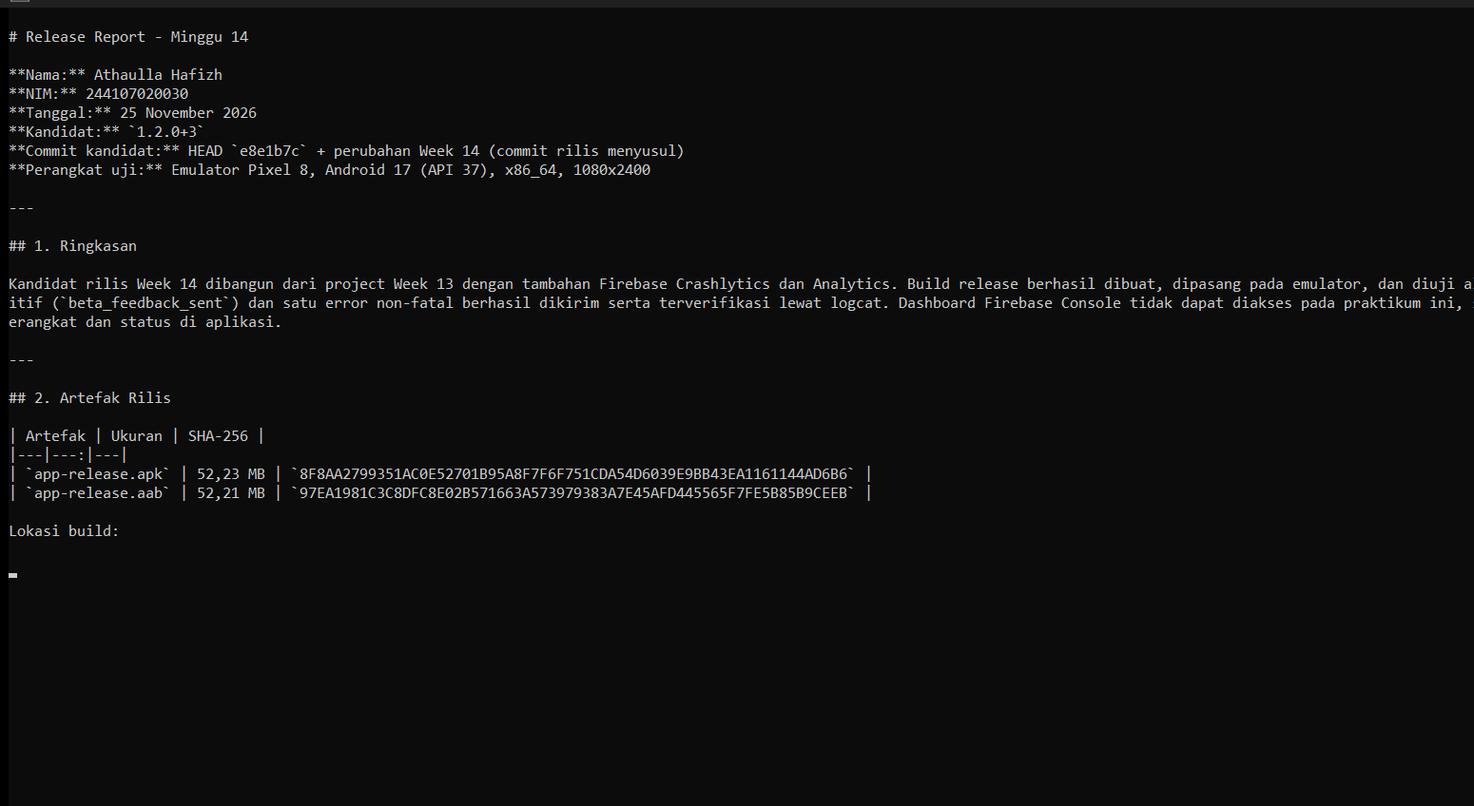
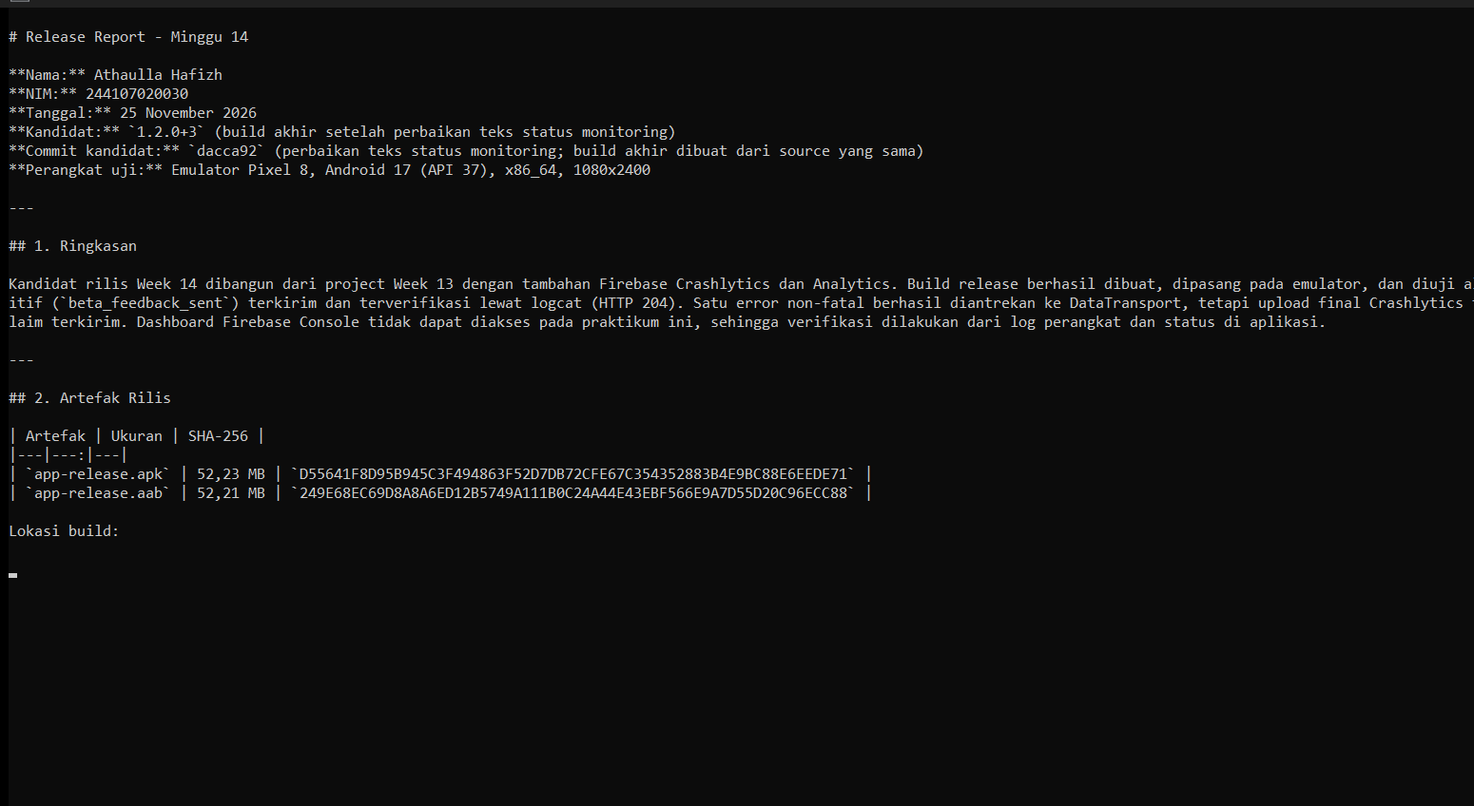
docs(week12-14): audit ulang gambar, klaim telemetri, dan checksum
- Perbaiki screenshot artefak/build Week 13 yang sebelumnya berisi error path

- Pisahkan bukti Analytics dan Crashlytics; error non-fatal diantrekan, bukan diklaim terkirim

- Perbaiki screenshot Week 14 yang tertimpa aplikasi/home screen lain

- Selaraskan checksum, commit kandidat, README, notes, dan portfolio

Changed region(s): [[0.0, 0.3679, 0.991, 0.4292], [0.1239, 0.1533, 0.6194, 0.2146], [0.1858, 0.5825, 0.5884, 0.6439]]

diff --git a/14-week-14-deployment-monitoring/README.md b/14-week-14-deployment-monitoring/README.md
@@ -71,7 +71,7 @@ Keterangan konfigurasi:
 
 ## Hasil yang Dicapai
 
-Kandidat `1.2.0+3` berhasil dibangun dan dipasang pada emulator. Firebase aktif dan terverifikasi lewat logcat: `FirebaseApp initialization successful`, event `beta_feedback_sent` masuk pipeline Analytics, dan error non-fatal diantrekan lalu di-upload dengan HTTP 204 pada build uji versi yang sama. Seluruh 65 tes lulus, integration test login sampai catatan juga lulus di emulator, `flutter analyze --fatal-infos` bersih, dan format nol perubahan. Dashboard Firebase Console tidak dapat diakses, sehingga keputusan rilis ditahan pada beta internal dan tidak diperluas.
+Kandidat `1.2.0+3` berhasil dibangun dan dipasang pada emulator. Firebase aktif dan terverifikasi lewat logcat: `FirebaseApp initialization successful`, event `beta_feedback_sent` masuk pipeline Analytics dan upload Analytics berhasil dengan HTTP 204. Error non-fatal berhasil diantrekan ke DataTransport, tetapi upload final Crashlytics tidak muncul di log sehingga tidak diklaim terkirim. Seluruh 65 tes lulus, integration test login sampai catatan juga lulus di emulator, `flutter analyze --fatal-infos` bersih, dan format nol perubahan. Dashboard Firebase Console tidak dapat diakses, sehingga keputusan rilis ditahan pada beta internal dan tidak diperluas.
 
 ---
 
@@ -83,8 +83,8 @@ Kandidat `1.2.0+3` berhasil dibangun dan dipasang pada emulator. Firebase aktif 
 | Build number | `3` |
 | APK | 52,23 MB |
 | AAB | 52,21 MB |
[4 lines of base64/hex data omitted]
 | Perangkat uji | Pixel 8, Android 17 (API 37) |
 
 Artefak build tidak di-commit. Angka dan checksum di atas dihasilkan dari build pada 25 November 2026.
@@ -100,7 +100,7 @@ Artefak build tidak di-commit. Angka dan checksum di atas dihasilkan dari build 
 > **Keterangan gambar**
 > - Versi dinaikkan dari `1.1.0+2` menjadi `1.2.0+3`.
 > - Kenaikan minor dipakai karena ada fitur baru (monitoring beta), dan build number naik untuk unggahan baru.
-> - Commit kandidat dicatat agar artefak bisa dihubungkan ke source.
+> - Commit yang tampil adalah `dacca92`, source yang dipakai untuk build akhir.
 
 <img src="screenshots/Praktikum 1 - Build AAB Release.png" width="700" alt="Build AAB Release">
 
@@ -110,6 +110,13 @@ Artefak build tidak di-commit. Angka dan checksum di atas dihasilkan dari build 
 > - Keduanya memakai debug signing; ini cukup untuk uji internal, tetapi belum layak untuk Play Store.
 
 ### Praktikum 2: Distribusi Beta ke Perangkat Uji
+
+<img src="screenshots/Praktikum 2 - Integration Test Beta.png" width="700" alt="Integration Test Beta">
+
+> **Keterangan gambar**
+> - Integration test dijalankan pada source final `dacca92` di emulator Pixel 8.
+> - Alur login sampai catatan tersimpan lulus (`All tests passed!`) tanpa crash.
+> - Ini bukti tambahan bahwa perbaikan teks status tidak merusak alur utama.
 
 <img src="screenshots/Praktikum 2 - Instalasi Build Beta.png" width="700" alt="Instalasi Build Beta">
 
@@ -121,7 +128,7 @@ Artefak build tidak di-commit. Angka dan checksum di atas dihasilkan dari build 
 <img src="screenshots/Praktikum 2 - Aplikasi Beta di Emulator.png" width="300" alt="Aplikasi Beta di Emulator">
 
 > **Keterangan gambar**
-> - Build release berhasil login dan menampilkan Home.
+> - Build release dipasang, lalu login berhasil dan menampilkan Home (screenshot diambil setelah aplikasi dipastikan foreground).
 > - Halaman Home menampilkan penanda `Deployment & Monitoring - Week 14`.
 > - Ikon umpan balik di kanan atas membuka halaman pengujian telemetri.
 
@@ -139,7 +146,7 @@ Artefak build tidak di-commit. Angka dan checksum di atas dihasilkan dari build 
 > **Keterangan gambar**
 > - Status monitoring ditampilkan jujur: `Firebase aktif (campus-notify-20030)`.
 > - Halaman ini hanya mengirim nama event dan nama layar.
-> - Tombol **Uji Error Non-Fatal** memicu error buatan untuk membuktikan Crashlytics menerima laporan.
+> - Tombol **Uji Error Non-Fatal** memicu error buatan untuk membuktikan Crashlytics mencatat dan mengantrekan laporan.
 
 <img src="screenshots/Praktikum 3 - Event Beta Dikirim.png" width="300" alt="Event Beta Dikirim">
 
@@ -147,11 +154,11 @@ Artefak build tidak di-commit. Angka dan checksum di atas dihasilkan dari build 
 > - Snackbar menegaskan event dikirim tanpa data pribadi.
 > - Event yang dikirim bernama `beta_feedback_sent` dengan parameter `screen_name=beta_feedback_page`.
 
-<img src="screenshots/Praktikum 3 - Error Non Fatal Dikirim.png" width="300" alt="Error Non Fatal Dikirim">
+<img src="screenshots/Praktikum 3 - Error Non Fatal Diantrekan di Aplikasi.png" width="300" alt="Error Non Fatal Diantrekan di Aplikasi">
 
 > **Keterangan gambar**
-> - Snackbar menegaskan error non-fatal dikirim ke Crashlytics.
-> - Error yang dikirim adalah error buatan `Uji error non-fatal Week 14` tanpa data pengguna.
+> - Snackbar menegaskan error non-fatal diantrekan ke Crashlytics, bukan diklaim sudah terkirim.
+> - Error yang diproses adalah error buatan `Uji error non-fatal Week 14` tanpa data pengguna.
 
 <img src="screenshots/Praktikum 3 - Event Analytics Terkirim.png" width="700" alt="Event Analytics Terkirim">
 
@@ -160,12 +167,12 @@ Artefak build tidak di-commit. Angka dan checksum di atas dihasilkan dari build 
 > - Parameter yang tercatat hanya `screen_name=beta_feedback_page`.
 > - Tidak ada email, token, atau isi catatan pada event.
 
-<img src="screenshots/Praktikum 3 - Error Non Fatal Terkirim.png" width="700" alt="Error Non Fatal Terkirim">
+<img src="screenshots/Praktikum 3 - Error Non Fatal Diantrekan.png" width="700" alt="Error Non Fatal Diantrekan">
 
 > **Keterangan gambar**
 > - Crashlytics mencatat `Persisting non-fatal event`, lalu `successfully enqueued to DataTransport` pada build uji `1.2.0+3`.
-> - Setelah aplikasi dibuka ulang, report di-upload dan server membalas HTTP 204.
-> - Baris `Successful upload. Got network response` adalah bukti upload, bukan sekadar pencatatan lokal.
+> - Report diantrekan ke DataTransport, lalu berkas report lokal dihapus. Upload final Crashlytics tidak muncul di log, jadi statusnya **diantrekan**, bukan **terkirim**.
+> - Baris `Successful upload. Got network response` pada `FA-SVC` adalah bukti upload **Analytics**, bukan Crashlytics.
 
 ### Praktikum 4: Triage dan Release Report
 
@@ -174,13 +181,14 @@ Artefak build tidak di-commit. Angka dan checksum di atas dihasilkan dari build 
 > **Keterangan gambar**
 > - Ringkasan bukti Analytics dan Crashlytics dikumpulkan dalam satu tampilan.
 > - Verifikasi memakai logcat karena dashboard Firebase Console tidak dapat diakses.
-> - HTTP 204 pada upload Crashlytics menunjukkan server menerima report.
+> - HTTP 204 berasal dari `FA-SVC` (Analytics). Crashlytics baru sampai tahap enqueue ke DataTransport, sehingga tidak diklaim terkirim.
 
 <img src="screenshots/Praktikum 4 - Triage Rilis.png" width="700" alt="Triage Rilis">
 
 > **Keterangan gambar**
 > - Alur utama release lulus di emulator.
-> - Analytics dan Crashlytics terkirim, tetapi dashboard belum ditinjau.
+> - Analytics terkirim (HTTP 204); Crashlytics baru diantrekan ke DataTransport.
+> - Dashboard belum ditinjau dan upload final Crashlytics belum terverifikasi.
 > - Keputusan: lanjutkan beta internal dengan syarat, tahan rilis publik.
 
 <img src="screenshots/Praktikum 4 - Release Report.png" width="700" alt="Release Report">
@@ -235,7 +243,7 @@ Bila `Firebase.initializeApp` gagal, `Monitoring.enabled` bernilai false, status
 2. **Distribusi bukan track resmi.** ADB install tidak punya opt-in, daftar tester, atau rollback.
 3. **Signing debug.** APK/AAB belum layak untuk Play Store.
 4. **Project Firebase dipakai bersama Minggu 6.** Data telemetry masuk ke project yang sama.
-5. **Symbol native belum diunggah.** Crashlytics menerima laporan Dart, tetapi mapping native belum dikonfigurasi.
+5. **Symbol native belum diunggah.** Crashlytics mencatat laporan Dart, tetapi mapping native belum dikonfigurasi.
 
 ---
 
@@ -247,7 +255,7 @@ Prompt untuk menganalisis log rilis beta sudah disamarkan dan dicatat lengkap di
 
 | Saran AI | Keputusan | Alasan Teknis |
 |---|---|---|
-| `enqueued` belum berarti `uploaded` | **Diterima** | Upload dibuktikan baris HTTP 204 |
+| `enqueued` belum berarti `uploaded` | **Diterima** | HTTP 204 adalah upload Analytics; Crashlytics baru enqueue |
 | Cek dashboard sebelum memperluas beta | **Diterima** | Dashboard adalah sinyal agregat yang tidak bisa diganti log satu perangkat |
 | Hitung crash-free rate dari logcat | **Ditolak** | Log satu perangkat tidak mewakili populasi |
 | Kirim `user_id` untuk analisis | **Ditolak** | Melanggar minimalisasi data |
@@ -264,7 +272,7 @@ Bukti bahwa build yang sama sudah diuji pada beberapa perangkat, tidak ada crash
 
 **2. Bagaimana Anda memutuskan untuk menahan atau melanjutkan rilis?**
 
-Saya menahan perluasan karena tiga syarat belum terpenuhi: signing produksi, dashboard monitoring, dan tester eksternal. Saya tetap melanjutkan beta internal karena alur utama lulus dan telemetry terbukti terkirim. Keputusan ini dicatat eksplisit di `docs/release-report.md`, bukan disimpulkan diam-diam.
+Saya menahan perluasan karena tiga syarat belum terpenuhi: signing produksi, dashboard monitoring, dan tester eksternal. Saya tetap melanjutkan beta internal karena alur utama lulus, event Analytics terbukti terkirim, dan error non-fatal tercatat sampai antrean DataTransport. Keputusan ini dicatat eksplisit di `docs/release-report.md`, bukan disimpulkan diam-diam.
 
 **3. Data apa yang tidak perlu dikirim ke layanan monitoring?**
 

diff --git a/14-week-14-deployment-monitoring/docs/release-report.md b/14-week-14-deployment-monitoring/docs/release-report.md
@@ -3,15 +3,15 @@
 **Nama:** Athaulla Hafizh  
 **NIM:** 244107020030  
 **Tanggal:** 25 November 2026  
-**Kandidat:** `1.2.0+3`  
-**Commit kandidat:** `3cb7d9c` (build dibuat dari working tree yang sama; dokumentasi rilis ada pada commit setelahnya)  
+**Kandidat:** `1.2.0+3` (build akhir setelah perbaikan teks status monitoring)  
+**Commit kandidat:** `dacca92` (perbaikan teks status monitoring; build akhir dibuat dari source yang sama)  
 **Perangkat uji:** Emulator Pixel 8, Android 17 (API 37), x86_64, 1080x2400
 
 ---
 
 ## 1. Ringkasan
 
-Kandidat rilis Week 14 dibangun dari project Week 13 dengan tambahan Firebase Crashlytics dan Analytics. Build release berhasil dibuat, dipasang pada emulator, dan diuji alur utama. Satu event Analytics non-sensitif (`beta_feedback_sent`) dan satu error non-fatal berhasil dikirim serta terverifikasi lewat logcat pada build uji versi yang sama. Dashboard Firebase Console tidak dapat diakses pada praktikum ini, sehingga verifikasi dilakukan dari log perangkat dan status di aplikasi.
+Kandidat rilis Week 14 dibangun dari project Week 13 dengan tambahan Firebase Crashlytics dan Analytics. Build release berhasil dibuat, dipasang pada emulator, dan diuji alur utama. Satu event Analytics non-sensitif (`beta_feedback_sent`) terkirim dan terverifikasi lewat logcat (HTTP 204). Satu error non-fatal berhasil diantrekan ke DataTransport, tetapi upload final Crashlytics tidak terlihat di log sehingga tidak diklaim terkirim. Dashboard Firebase Console tidak dapat diakses pada praktikum ini, sehingga verifikasi dilakukan dari log perangkat dan status di aplikasi.
 
 ---
 
@@ -19,8 +19,8 @@ Kandidat rilis Week 14 dibangun dari project Week 13 dengan tambahan Firebase Cr
 
 | Artefak | Ukuran | SHA-256 |
 |---|---:|---|
[4 lines of base64/hex data omitted]
 
 Lokasi build:
 
@@ -95,18 +95,18 @@ V/FA-SVC: Logging event: origin=app,name=beta_feedback_sent,
 params=Bundle[{screen_name=beta_feedback_page, ga_event_origin(_o)=app, ...}]
 V/FA-SVC:       name: beta_feedback_sent
 V/FA-SVC:         string_value: beta_feedback_page
+V/FA-SVC: Network upload successful with code, uploadAttempted: 204, true
+V/FA-SVC: Successful upload. Got network response. code, size: 204, 0
 ```
 
 ### Crashlytics
 
-Verifikasi non-fatal dilakukan pada build uji `1.2.0+3`. Build release juga menginisialisasi Crashlytics, tetapi upload report pada sesi release tidak muncul di log; report yang sama terverifikasi pada build uji dengan applicationId dan versi identik.
+Verifikasi non-fatal dilakukan pada build uji `1.2.0+3`. Build release juga menginisialisasi Crashlytics. Yang terbukti di log adalah report berhasil diantrekan ke DataTransport, lalu berkas report lokal dihapus. Upload final Crashlytics tidak muncul di log, sehingga statusnya **diantrekan**, bukan **terkirim**.
 
 ```text
 D/FirebaseCrashlytics: Persisting non-fatal event for session ...
 D/FirebaseCrashlytics: Crashlytics report successfully enqueued to DataTransport: ...
 D/FirebaseCrashlytics: Deleted report file: .../reports/...
-V/FA-SVC: Network upload successful with code, uploadAttempted: 204, true
-V/FA-SVC: Successful upload. Got network response. code, size: 204, 0
 ```
 
 ### Inisialisasi
@@ -120,7 +120,8 @@ Bukti:
 - `screenshots/Praktikum 3 - Firebase Terinisialisasi.png`
 - `screenshots/Praktikum 3 - Event Analytics Terkirim.png`
 - `screenshots/Praktikum 3 - Event Beta Dikirim.png`
-- `screenshots/Praktikum 3 - Error Non Fatal Dikirim.png`
+- `screenshots/Praktikum 3 - Error Non Fatal Diantrekan di Aplikasi.png`
+- `screenshots/Praktikum 3 - Error Non Fatal Diantrekan.png`
 - `screenshots/Praktikum 4 - Verifikasi Telemetri.png`
 
 ---
@@ -131,7 +132,7 @@ Bukti:
 |:--:|---|---|---|
 | 1 | Build release gagal login karena izin `INTERNET` hanya ada di manifest debug | Alur utama tidak bisa dipakai pada build release | **Diperbaiki**: izin ditambahkan ke `android/app/src/main/AndroidManifest.xml` |
 | 2 | Firebase gagal init sebelum plugin `com.google.gms.google-services` dipasang | Analytics melaporkan `Missing google_app_id` | **Diperbaiki**: plugin dan `google-services.json` ditambahkan |
-| 3 | Crashlytics report baru terkirim setelah aplikasi dibuka ulang | Verifikasi dashboard tertunda | **Diterima**: report diantrekan ke DataTransport lalu di-upload pada sesi berikutnya |
+| 3 | Crashlytics report baru diantrekan setelah aplikasi dibuka ulang | Upload final belum terverifikasi | **Diterima**: report masuk DataTransport, tetapi tidak ada bukti upload di log |
 | 4 | Dashboard Firebase Console tidak dapat diakses | Tidak ada tangkapan layar dashboard | **Dicatat sebagai keterbatasan**; verifikasi memakai logcat |
 | 5 | Play Console tidak tersedia | Tidak ada track Internal Testing | **Dicatat**; distribusi memakai ADB ke perangkat uji |
 | 6 | Build memakai debug signing | Tidak layak untuk Play Store | **Ditahan** untuk rilis publik sampai keystore produksi disiapkan |
@@ -142,7 +143,7 @@ Bukti:
 
 **Lanjutkan beta internal dengan syarat**, bukan rilis publik.
 
-Alasannya: alur utama berjalan pada build release, event Analytics dan error non-fatal terverifikasi terkirim, dan tidak ada data sensitif yang dikirim. Namun build belum ditandatangani dengan keystore produksi, dashboard monitoring belum ditinjau langsung, dan belum ada tester selain emulator. Karena itu distribusi tidak diperluas.
+Alasannya: alur utama berjalan pada build release, event Analytics terkirim (HTTP 204), error non-fatal diantrekan ke DataTransport, dan tidak ada data sensitif yang dikirim. Namun build belum ditandatangani dengan keystore produksi, dashboard monitoring belum ditinjau langsung, dan belum ada tester selain emulator. Karena itu distribusi tidak diperluas.
 
 Kriteria untuk memperluas distribusi:
 1. Keystore produksi dibuat dan disimpan di GitHub Actions Secrets.
@@ -171,7 +172,7 @@ Event `beta_feedback_sent` hanya membawa `screen_name`. Logika `RedactSensitive`
 2. **Distribusi bukan track resmi.** ADB install tidak memiliki mekanisme opt-in, daftar tester, atau rollback seperti Play Console.
 3. **Signing debug.** APK/AAB tidak dapat dipublikasikan ke Play Store.
 4. **Project Firebase dipakai bersama Minggu 6.** Data Analytics/Crashlytics masuk ke project yang sama dan `applicationId` juga sama, sehingga memasang build Week 14 akan menggantikan aplikasi Minggu 6 di perangkat uji. Ini disengaja karena pendaftaran aplikasi baru butuh akses console.
-5. **Symbol upload belum dikonfigurasi.** Crashlytics menerima laporan Dart, tetapi symbol native belum diunggah lewat Gradle plugin Crashlytics.
+5. **Symbol upload belum dikonfigurasi.** Crashlytics mencatat laporan Dart, tetapi symbol native belum diunggah lewat Gradle plugin Crashlytics.
 
 ---
 

diff --git a/14-week-14-deployment-monitoring/docs/ai-log-analysis.md b/14-week-14-deployment-monitoring/docs/ai-log-analysis.md
@@ -19,10 +19,12 @@ I/FirebaseInitProvider: FirebaseApp initialization successful
 I/FirebaseCrashlytics: Initializing Firebase Crashlytics 21.1.0 for <APP_ID>
 V/FA-SVC: Logging event: origin=app,name=beta_feedback_sent,
 params=Bundle[{screen_name=<SCREEN>, ga_event_origin(_o)=app, ...}]
-D/FirebaseCrashlytics: Persisting non-fatal event for session <SESSION>
-D/FirebaseCrashlytics: Crashlytics report successfully enqueued to DataTransport: <SESSION>
+V/FA-SVC: Uploading data. app, uncompressed size, data: <APP_ID>, 628,
 V/FA-SVC: Network upload successful with code, uploadAttempted: 204, true
 V/FA-SVC: Successful upload. Got network response. code, size: 204, 0
+D/FirebaseCrashlytics: Persisting non-fatal event for session <SESSION>
+D/FirebaseCrashlytics: Crashlytics report successfully enqueued to DataTransport: <SESSION>
+D/FirebaseCrashlytics: Deleted report file: .../reports/<SESSION>
 ```
 
 Yang dihapus sebelum dikirim: `mobilesdk_app_id`, `firebaseInstallationId`, `crashlyticsInstallId`, `org_id`, nama paket lengkap, timestamp, dan seluruh isi pesan error yang mungkin memuat data pengguna.
@@ -33,13 +35,12 @@ Yang dihapus sebelum dikirim: `mobilesdk_app_id`, `firebaseInstallationId`, `cra
 
 ```text
 Konteks: ini logcat dari Flutter release build yang memakai Firebase
-Crashlytics dan Analytics. Event beta_feedback_sent tercatat, lalu satu
-error non-fatal dikirim. Report muncul sebagai "enqueued to DataTransport"
-dan upload berhasil dengan HTTP 204.
+Crashlytics dan Analytics. Event beta_feedback_sent tercatat dan FA-SVC
+melaporkan upload HTTP 204. Satu error non-fatal masuk Crashlytics dan
+muncul sebagai "enqueued to DataTransport".
 
 Tugas:
-1. Jelaskan apakah rangkaian log ini membuktikan event dan error benar-benar
-   terkirim, atau hanya tercatat lokal.
+1. Tentukan mana yang benar-benar terkirim dan mana yang baru diantrekan.
 2. Sebutkan bukti minimum yang masih kurang sebelum saya boleh memperluas
    distribusi beta.
 3. Tunjukkan bagian log yang tidak boleh dikirim ke layanan AI.
@@ -55,15 +56,15 @@ dari log ini, dan jangan menyarankan menambahkan data pribadi ke parameter.
 | Klaim AI | Keputusan | Verifikasi |
 |---|---|---|
 | `Persisting non-fatal event` berarti error baru disimpan lokal | **Diterima** | Log berikutnya menunjukkan `successfully enqueued to DataTransport` |
-| HTTP 204 berarti upload diterima server | **Diterima** | Baris `Successful upload. Got network response` muncul setelahnya |
-| Event Analytics terbukti terkirim karena ada `Logging event` | **Diterima sebagian** | `Logging event` membuktikan event masuk pipeline; upload Analytics terpisah terlihat pada `Uploading bundle` dan `Network upload successful` |
+| HTTP 204 berarti upload diterima server | **Diterima, tetapi untuk Analytics** | Baris 204 berasal dari `FA-SVC`, bukan Crashlytics |
+| Event Analytics terkirim karena ada `Logging event` dan upload 204 | **Diterima** | `Uploading bundle` dan `Network upload successful` muncul setelah event |
+| `Crashlytics report enqueued` sama dengan `uploaded` | **Ditolak** | Enqueue dan upload adalah dua tahap berbeda; tidak ada bukti upload Crashlytics di log |
 | Dashboard harus dicek untuk memastikan data muncul | **Diterima** | Tidak bisa dilakukan tanpa akses console; dicatat sebagai keterbatasan |
 | Crash-free rate bisa dihitung dari log ini | **Ditolak** | Log satu perangkat tidak mewakili populasi; butuh dashboard agregat |
 | Kirim `user_id` agar analisis lebih mudah | **Ditolak** | Melanggar prinsip minimalisasi data |
-| `Crashlytics report enqueued` sama dengan `uploaded` | **Ditolak** | Enqueue dan upload adalah dua tahap berbeda; bukti upload ada di baris HTTP 204 |
 
 ---
 
 ## 5. Kesimpulan
 
-AI berguna untuk menjelaskan urutan tahap Crashlytics, tetapi tidak boleh dipakai untuk menyimpulkan keberhasilan rilis hanya dari satu potong log. Kesimpulan yang saya pakai: event Analytics dan error non-fatal **terkirim** (bukti enqueue + HTTP 204), tetapi **dashboard belum diverifikasi** dan distribusi belum boleh diperluas.
+AI berguna untuk memisahkan dua jalur telemetri yang terlihat mirip di log. Kesimpulan yang saya pakai: **Analytics** `beta_feedback_sent` terkirim (HTTP 204), sedangkan **Crashlytics** baru sampai tahap enqueue ke DataTransport dan upload finalnya belum terverifikasi. Dashboard juga belum ditinjau, sehingga distribusi belum boleh diperluas.

diff --git a/13-week-13-ci-cd-automation/README.md b/13-week-13-ci-cd-automation/README.md
@@ -65,7 +65,7 @@ Keterangan versi:
 
 ## Hasil yang Dicapai
 
-Workflow berhasil menjalankan seluruh tahap pada project ini: format nol perubahan, `flutter analyze --fatal-infos` bersih, 65 tes lulus, lalu build APK 51,05 MB dan AAB 50,21 MB. Setelah perubahan di-push ke `develop`, GitHub Actions menjalankan 7 job matriks (Week 8-14) dan semuanya sukses; job Week 13 selesai dalam 6 menit 45 detik dan menghasilkan artefak `week13-android-builds` berukuran 73,6 MB. APK release dipasang pada emulator Pixel 8 dan menampilkan `versionName=1.1.0`, `versionCode=2`. Tidak ada material signing produksi yang dibuat; build memakai debug signing agar bisa diuji, dan itu dicatat sebagai risiko yang belum diselesaikan.
[1 lines of base64/hex data omitted]
 
 ---
 
@@ -99,8 +99,8 @@ Workflow berhasil menjalankan seluruh tahap pada project ini: format nol perubah
 <img src="screenshots/Praktikum 2 - Artefak Android.png" width="700" alt="Artefak Android">
 
 > **Keterangan gambar**
-> - Artefak disimpan di `build/app/outputs/` dan diunggah oleh `actions/upload-artifact@v4`.
-> - `if-no-files-found: error` membuat workflow gagal bila build tidak benar-benar menghasilkan berkas.
+> - Artefak nyata tersimpan di `build/app/outputs/`: APK 51,05 MB dan AAB 50,21 MB beserta checksum SHA-256.
+> - Pada GitHub Actions, `actions/upload-artifact@v4` mengunggah kedua berkas itu dengan `if-no-files-found: error`.
 > - Retensi 7 hari cukup untuk peninjauan, tanpa menyimpan artefak selamanya.
 
 ### Praktikum 3: Versioning, Secrets, dan Verifikasi
@@ -123,7 +123,7 @@ Workflow berhasil menjalankan seluruh tahap pada project ini: format nol perubah
 <img src="screenshots/Praktikum 3 - Aplikasi Release di Emulator.png" width="300" alt="Aplikasi Release di Emulator"> <img src="screenshots/Praktikum 3 - Home Aplikasi Release.png" width="300" alt="Home Aplikasi Release">
 
 > **Keterangan gambar**
-> - APK release dipasang di emulator dan berhasil login, membuktikan build release tidak hanya lolos kompilasi.
+> - Screenshot pertama menunjukkan halaman login build release; screenshot kedua menunjukkan Home setelah login berhasil.
 > - Build release sempat gagal login karena manifest utama belum memuat izin `INTERNET`; masalah diperbaiki dengan menambahkannya ke `AndroidManifest.xml` utama, bukan hanya manifest debug.
 > - Halaman Home menampilkan penanda `CI/CD & Automation - Week 13`.
 
@@ -147,7 +147,7 @@ Workflow berhasil menjalankan seluruh tahap pada project ini: format nol perubah
 
 ## Catatan Workflow
 
-Workflow pada folder modul ini adalah salinan mandiri untuk project Week 13. Pada repository monorepo ini, workflow yang benar-benar dieksekusi GitHub berada di `.github/workflows/` pada root repository dan menjalankan project Week 12 sampai Week 14. Keduanya memakai perintah yang sama; yang berbeda hanya `working-directory`.
+Workflow pada folder modul ini adalah salinan mandiri untuk project Week 13. Pada repository monorepo ini, workflow yang benar-benar dieksekusi GitHub berada di `.github/workflows/` pada root repository dan menjalankan project Week 8 sampai Week 14. Keduanya menjalankan format, analyze, dan test. Workflow mandiri memakai `--fatal-infos` dan format `.`; CI root memakai `flutter analyze` dan format `lib test` agar tetap kompatibel dengan Week 8-11. Yang berbeda juga `working-directory`.
 
 | Tahap | Perintah | Gagal berarti |
 |---|---|---|

diff --git a/notes/learning-journal/week-14-journal.md b/notes/learning-journal/week-14-journal.md
@@ -24,7 +24,8 @@
 - [x] Membuat halaman Umpan Balik Beta untuk event dan error non-fatal.
 - [x] Membangun APK 52,23 MB dan AAB 52,21 MB.
 - [x] Memasang build beta di emulator dan memverifikasi versi `1.2.0+3`.
-- [x] Memverifikasi event `beta_feedback_sent` dan upload Crashlytics HTTP 204 lewat logcat pada build uji versi yang sama.
+- [x] Memverifikasi event `beta_feedback_sent` dan upload Analytics HTTP 204 lewat logcat pada build uji versi yang sama.
+- [x] Memastikan report non-fatal Crashlytics sampai tahap enqueue DataTransport; upload finalnya tidak diklaim karena tidak muncul di log.
 - [x] Menulis `docs/release-report.md` dan `docs/ai-log-analysis.md`.
 - [x] Menjalankan analyze, format, dan 65 tes sampai hijau.
 
@@ -32,7 +33,7 @@
 - **Masalah:** Firebase gagal init dan Analytics melaporkan `Missing google_app_id` meskipun `firebase_options.dart` sudah diisi.
 - **Solusi:** Plugin `com.google.gms.google-services` dan `google-services.json` ditambahkan; setelah itu `FirebaseApp initialization successful`.
 - **Masalah:** Crashlytics mencatat non-fatal tetapi report belum terlihat terkirim.
-- **Solusi:** Report diantrekan ke DataTransport dan baru di-upload pada sesi berikutnya; setelah aplikasi dibuka ulang, log menunjukkan HTTP 204.
+- **Solusi:** Report diantrekan ke DataTransport setelah aplikasi dibuka ulang. HTTP 204 yang muncul berasal dari Analytics, bukan Crashlytics, sehingga status Crashlytics dicatat sebagai **diantrekan**, bukan **terkirim**.
 - **Masalah:** Build release gagal login karena izin `INTERNET` hanya ada di manifest debug.
 - **Solusi:** Izin dipindahkan ke manifest utama dan build diuji ulang di emulator.
 - **Masalah:** Firebase Console dan Play Console tidak dapat diakses.
@@ -41,4 +42,4 @@
 - **Solusi:** Tidak dipalsukan sebagai rilis produksi; keputusan rilis ditahan pada beta internal.
 
 ### Key Takeaway
-> Rilis bukan sekadar build berhasil. Bukti bahwa event dan error benar-benar terkirim, bahwa tidak ada data pribadi yang bocor, dan bahwa keterbatasan dicatat jujur jauh lebih penting daripada dashboard yang terlihat hijau.
+> Rilis bukan sekadar build berhasil. Bukti bahwa event Analytics benar-benar terkirim, bahwa error tercatat sampai antrean, bahwa tidak ada data pribadi yang bocor, dan bahwa keterbatasan dicatat jujur jauh lebih penting daripada dashboard yang terlihat hijau.

diff --git a/12-week-12-testing-quality-assurance/README.md b/12-week-12-testing-quality-assurance/README.md
@@ -97,8 +97,8 @@ Seluruh **65 tes** lulus: 57 tes lama dari Minggu 11 dan 8 tes baru untuk login,
 <img src="screenshots/Praktikum 1 - Struktur Berkas Test.png" width="700" alt="Struktur Berkas Test">
 
 > **Keterangan gambar**
-> - Delapan berkas test baru ditambahkan di samping 13 berkas test Minggu 11.
-> - `integration_test/app_test.dart` dipisahkan dari folder `test/` karena dijalankan pada perangkat, bukan di VM pengujian.
+> - Tiga berkas widget test baru dan satu berkas integration test ditambahkan di samping 13 berkas test Minggu 11.
+> - Total ada 16 berkas test dan 8 kasus uji baru, sehingga jumlah tes menjadi 65.
 
 <img src="screenshots/Praktikum 1 - Hasil Unit dan Widget Test.png" width="700" alt="Hasil Unit dan Widget Test">
 
@@ -158,7 +158,7 @@ Seluruh **65 tes** lulus: 57 tes lama dari Minggu 11 dan 8 tes baru untuk login,
 ## Temuan yang Belum Terselesaikan
 
 1. **Streaming AI belum diuji end-to-end.** Pengujian berhenti pada `AskAi` dan cache; parsing SSE serta pembatalan stream belum punya test karena membutuhkan server tiruan.
-2. **`flutter_secure_storage` hanya diuji lewat fake.** Perilaku Keystore asli baru terbukti saat integration test berjalan di perangkat.
+2. **`flutter_secure_storage` tidak diuji terpisah.** Unit test memakai fake; perilaku Keystore asli hanya tersentuh lewat integration test, tanpa pemeriksaan langsung.
 3. **Cakupan halaman detail pengumuman masih rendah.** Halaman ini hanya diuji secara tidak langsung lewat route.
 4. **Test integrasi bergantung pada jaringan.** `reqres.in` adalah layanan demo; jika kuota harian habis, test akan gagal karena alasan yang bukan bug aplikasi.
 

diff --git a/notes/reflections/week-14-reflection.md b/notes/reflections/week-14-reflection.md
@@ -10,7 +10,7 @@
 Bukti bahwa build yang sama sudah diuji pada beberapa perangkat, tidak ada crash fatal dalam 24 jam, dashboard menunjukkan crash-free users yang tinggi, dan tidak ada temuan yang menghalangi alur utama. Untuk praktikum ini, bukti yang ada baru satu perangkat dan satu event; itu cukup untuk uji internal, belum untuk memperluas.
 
 ## 2. Bagaimana Anda memutuskan untuk menahan atau melanjutkan rilis?
-Saya menahan perluasan karena tiga syarat belum terpenuhi: signing produksi, dashboard monitoring, dan tester eksternal. Saya tetap melanjutkan beta internal karena alur utama lulus dan telemetry terbukti terkirim. Keputusan ini dicatat eksplisit di `docs/release-report.md`, bukan disimpulkan diam-diam.
+Saya menahan perluasan karena tiga syarat belum terpenuhi: signing produksi, dashboard monitoring, dan tester eksternal. Saya tetap melanjutkan beta internal karena alur utama lulus, event Analytics terbukti terkirim (HTTP 204), dan error non-fatal tercatat sampai antrean DataTransport. Keputusan ini dicatat eksplisit di `docs/release-report.md`, bukan disimpulkan diam-diam.
 
 ## 3. Data apa yang tidak perlu dikirim ke layanan monitoring?
 Email, token, isi catatan, riwayat chat, NIK, nomor HP, dan identifier perangkat yang tidak diperlukan. Event `beta_feedback_sent` hanya mengirim nama event dan nama layar. Untuk analisis AI, log disamarkan lebih dulu dengan menghapus app ID, installation ID, session ID, dan timestamp.

diff --git a/portfolio-summary.md b/portfolio-summary.md
@@ -230,11 +230,11 @@
 
 ### Tugas Utama: Deployment & Monitoring
 - **Kandidat 1.2.0+3:** APK 52,23 MB dan AAB 52,21 MB, dipasang pada emulator Pixel 8.
-- **Crashlytics:** Error fatal dan non-fatal tercatat; report non-fatal terkirim dengan HTTP 204.
+- **Crashlytics:** Error fatal dan non-fatal tercatat; report non-fatal diantrekan ke DataTransport, upload finalnya belum terverifikasi.
 - **Analytics:** Event `beta_feedback_sent` hanya membawa `screen_name`, tanpa data pribadi.
 - **Fallback Lokal:** Aplikasi tetap berjalan bila Firebase gagal diinisialisasi.
 - **Keputusan Jujur:** Beta internal dilanjutkan, rilis publik ditahan karena signing, dashboard, dan tester eksternal belum siap.
 
 ### Refleksi Kunci Minggu 14
-1. **Bukti Mengalahkan Klaim:** `enqueued` bukan `uploaded`; HTTP 204 yang membuktikan report diterima.
+1. **Bukti Mengalahkan Klaim:** `enqueued` bukan `uploaded`; HTTP 204 membuktikan upload Analytics, bukan Crashlytics.
 2. **Keterbatasan Harus Ditulis:** Dashboard dan Play Console tidak tersedia, dan itu dicatat, bukan ditutupi.
